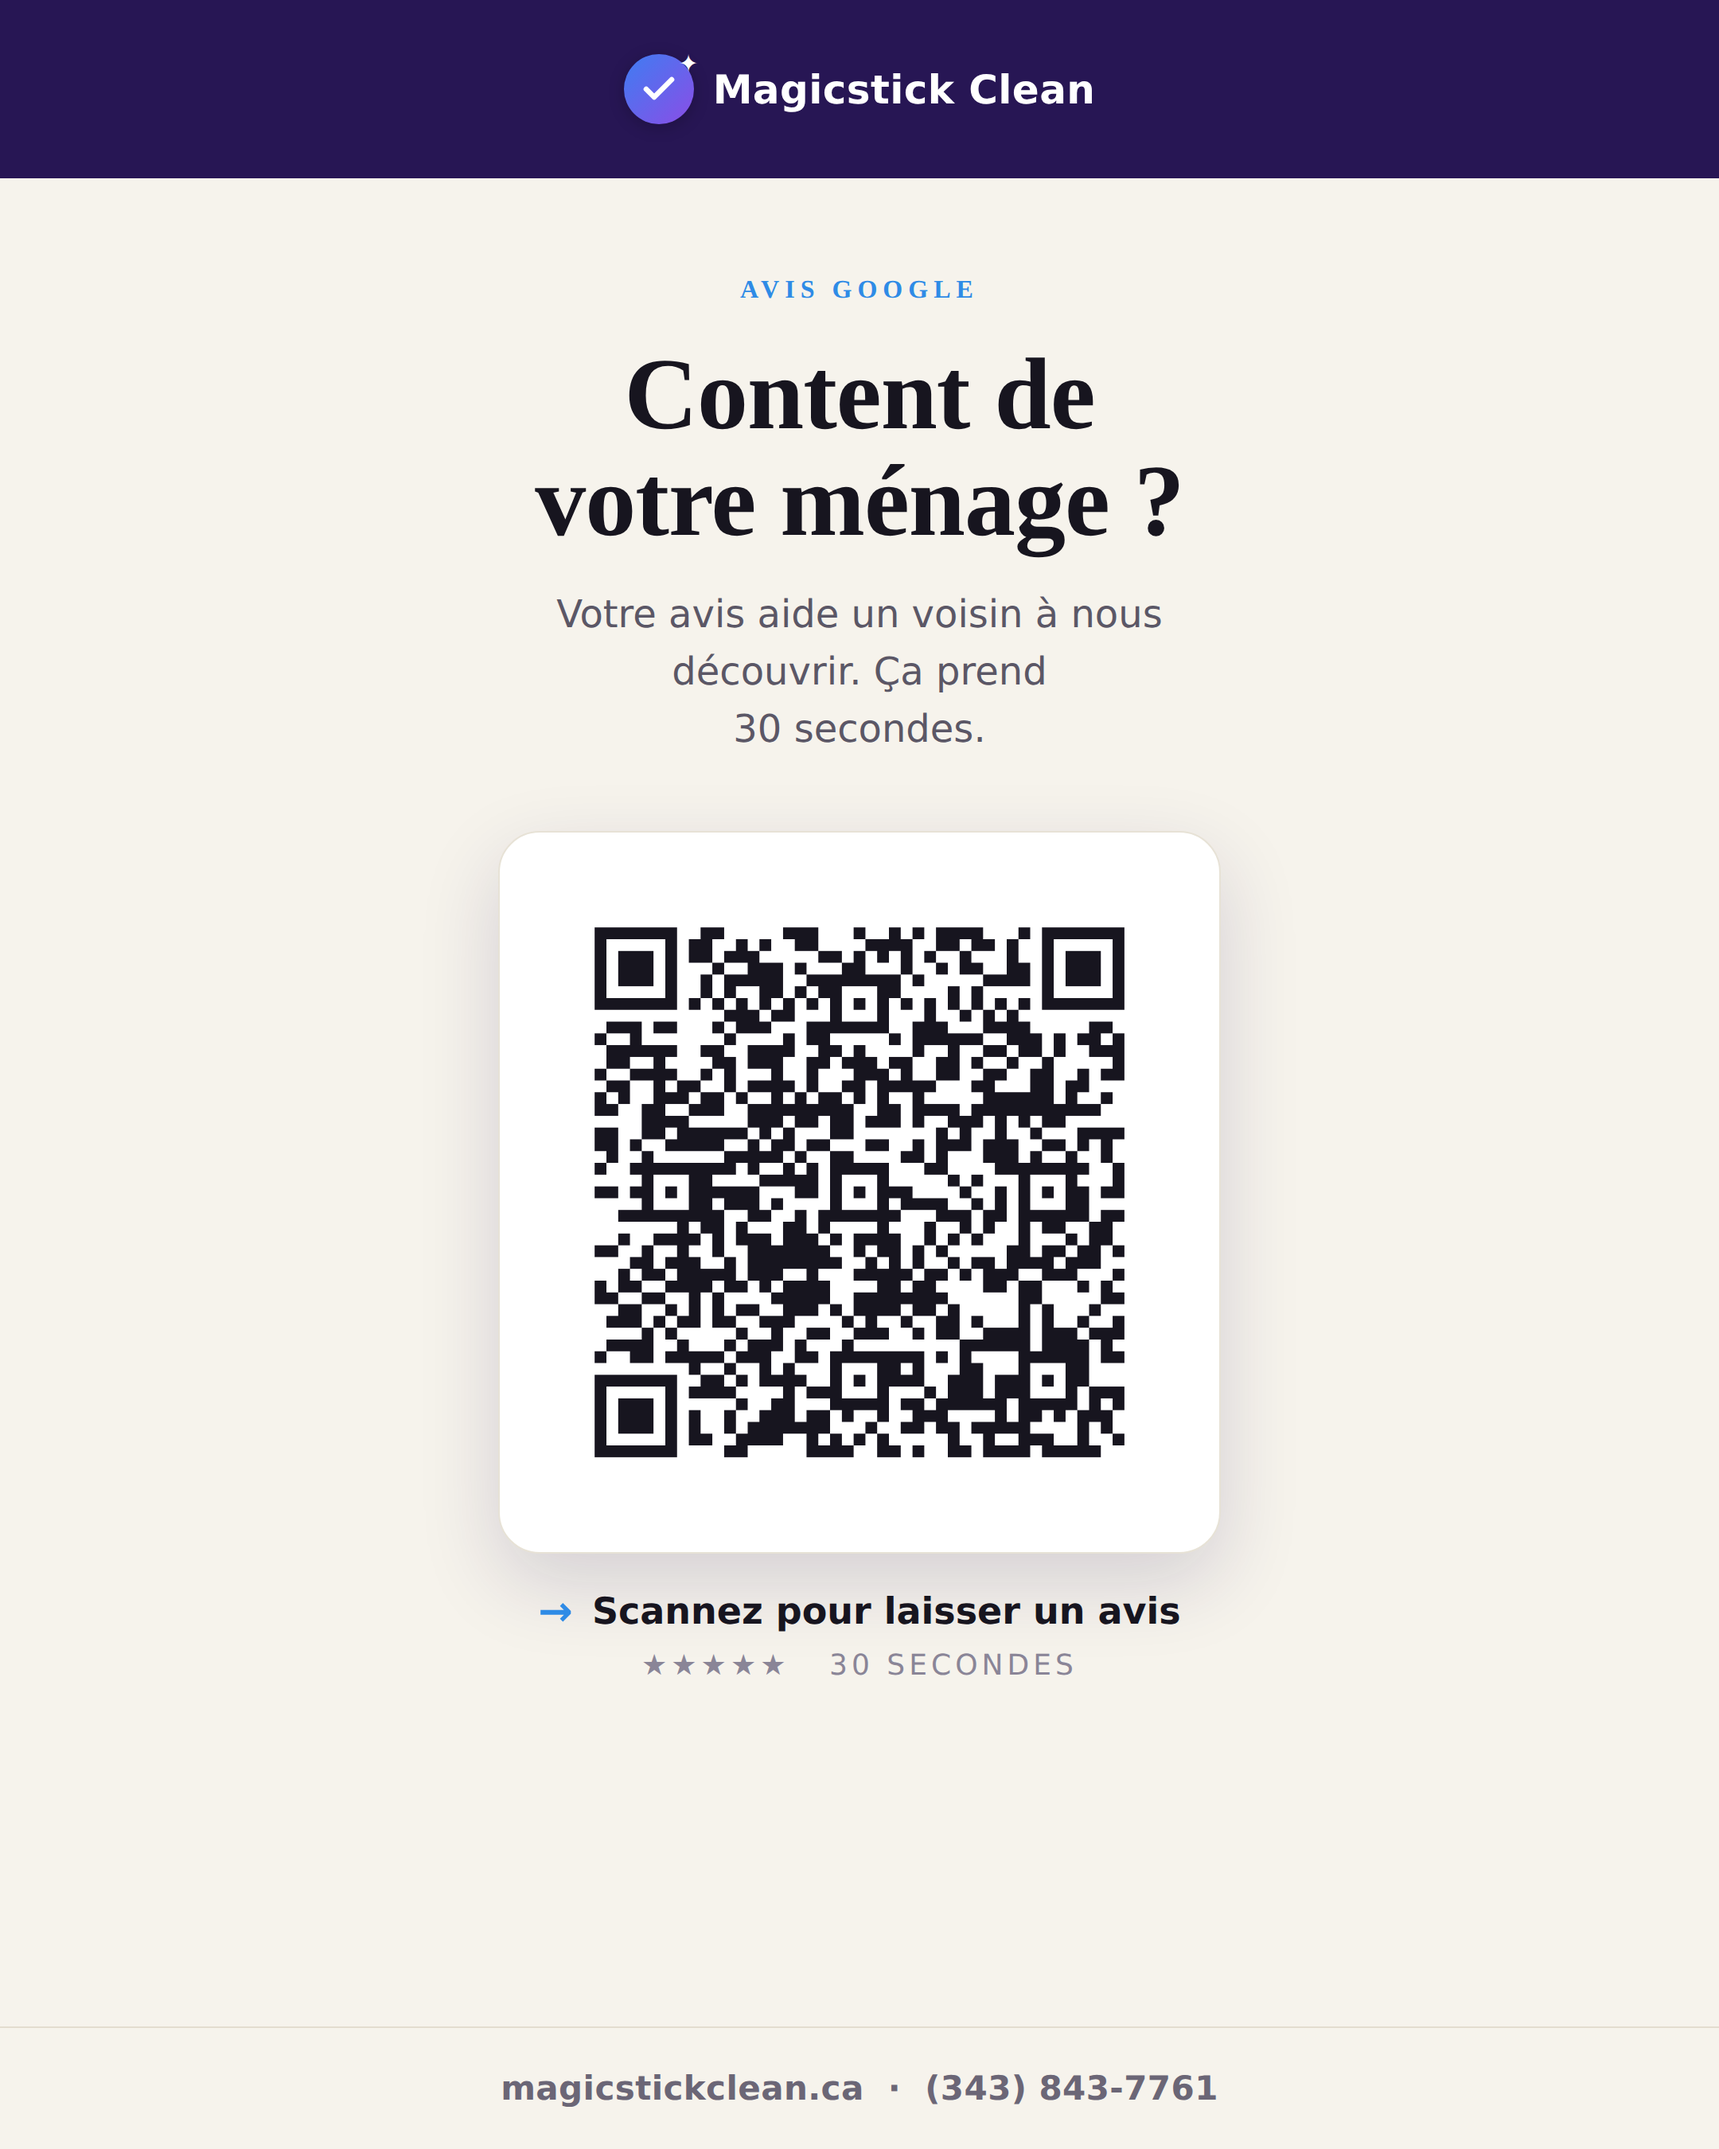
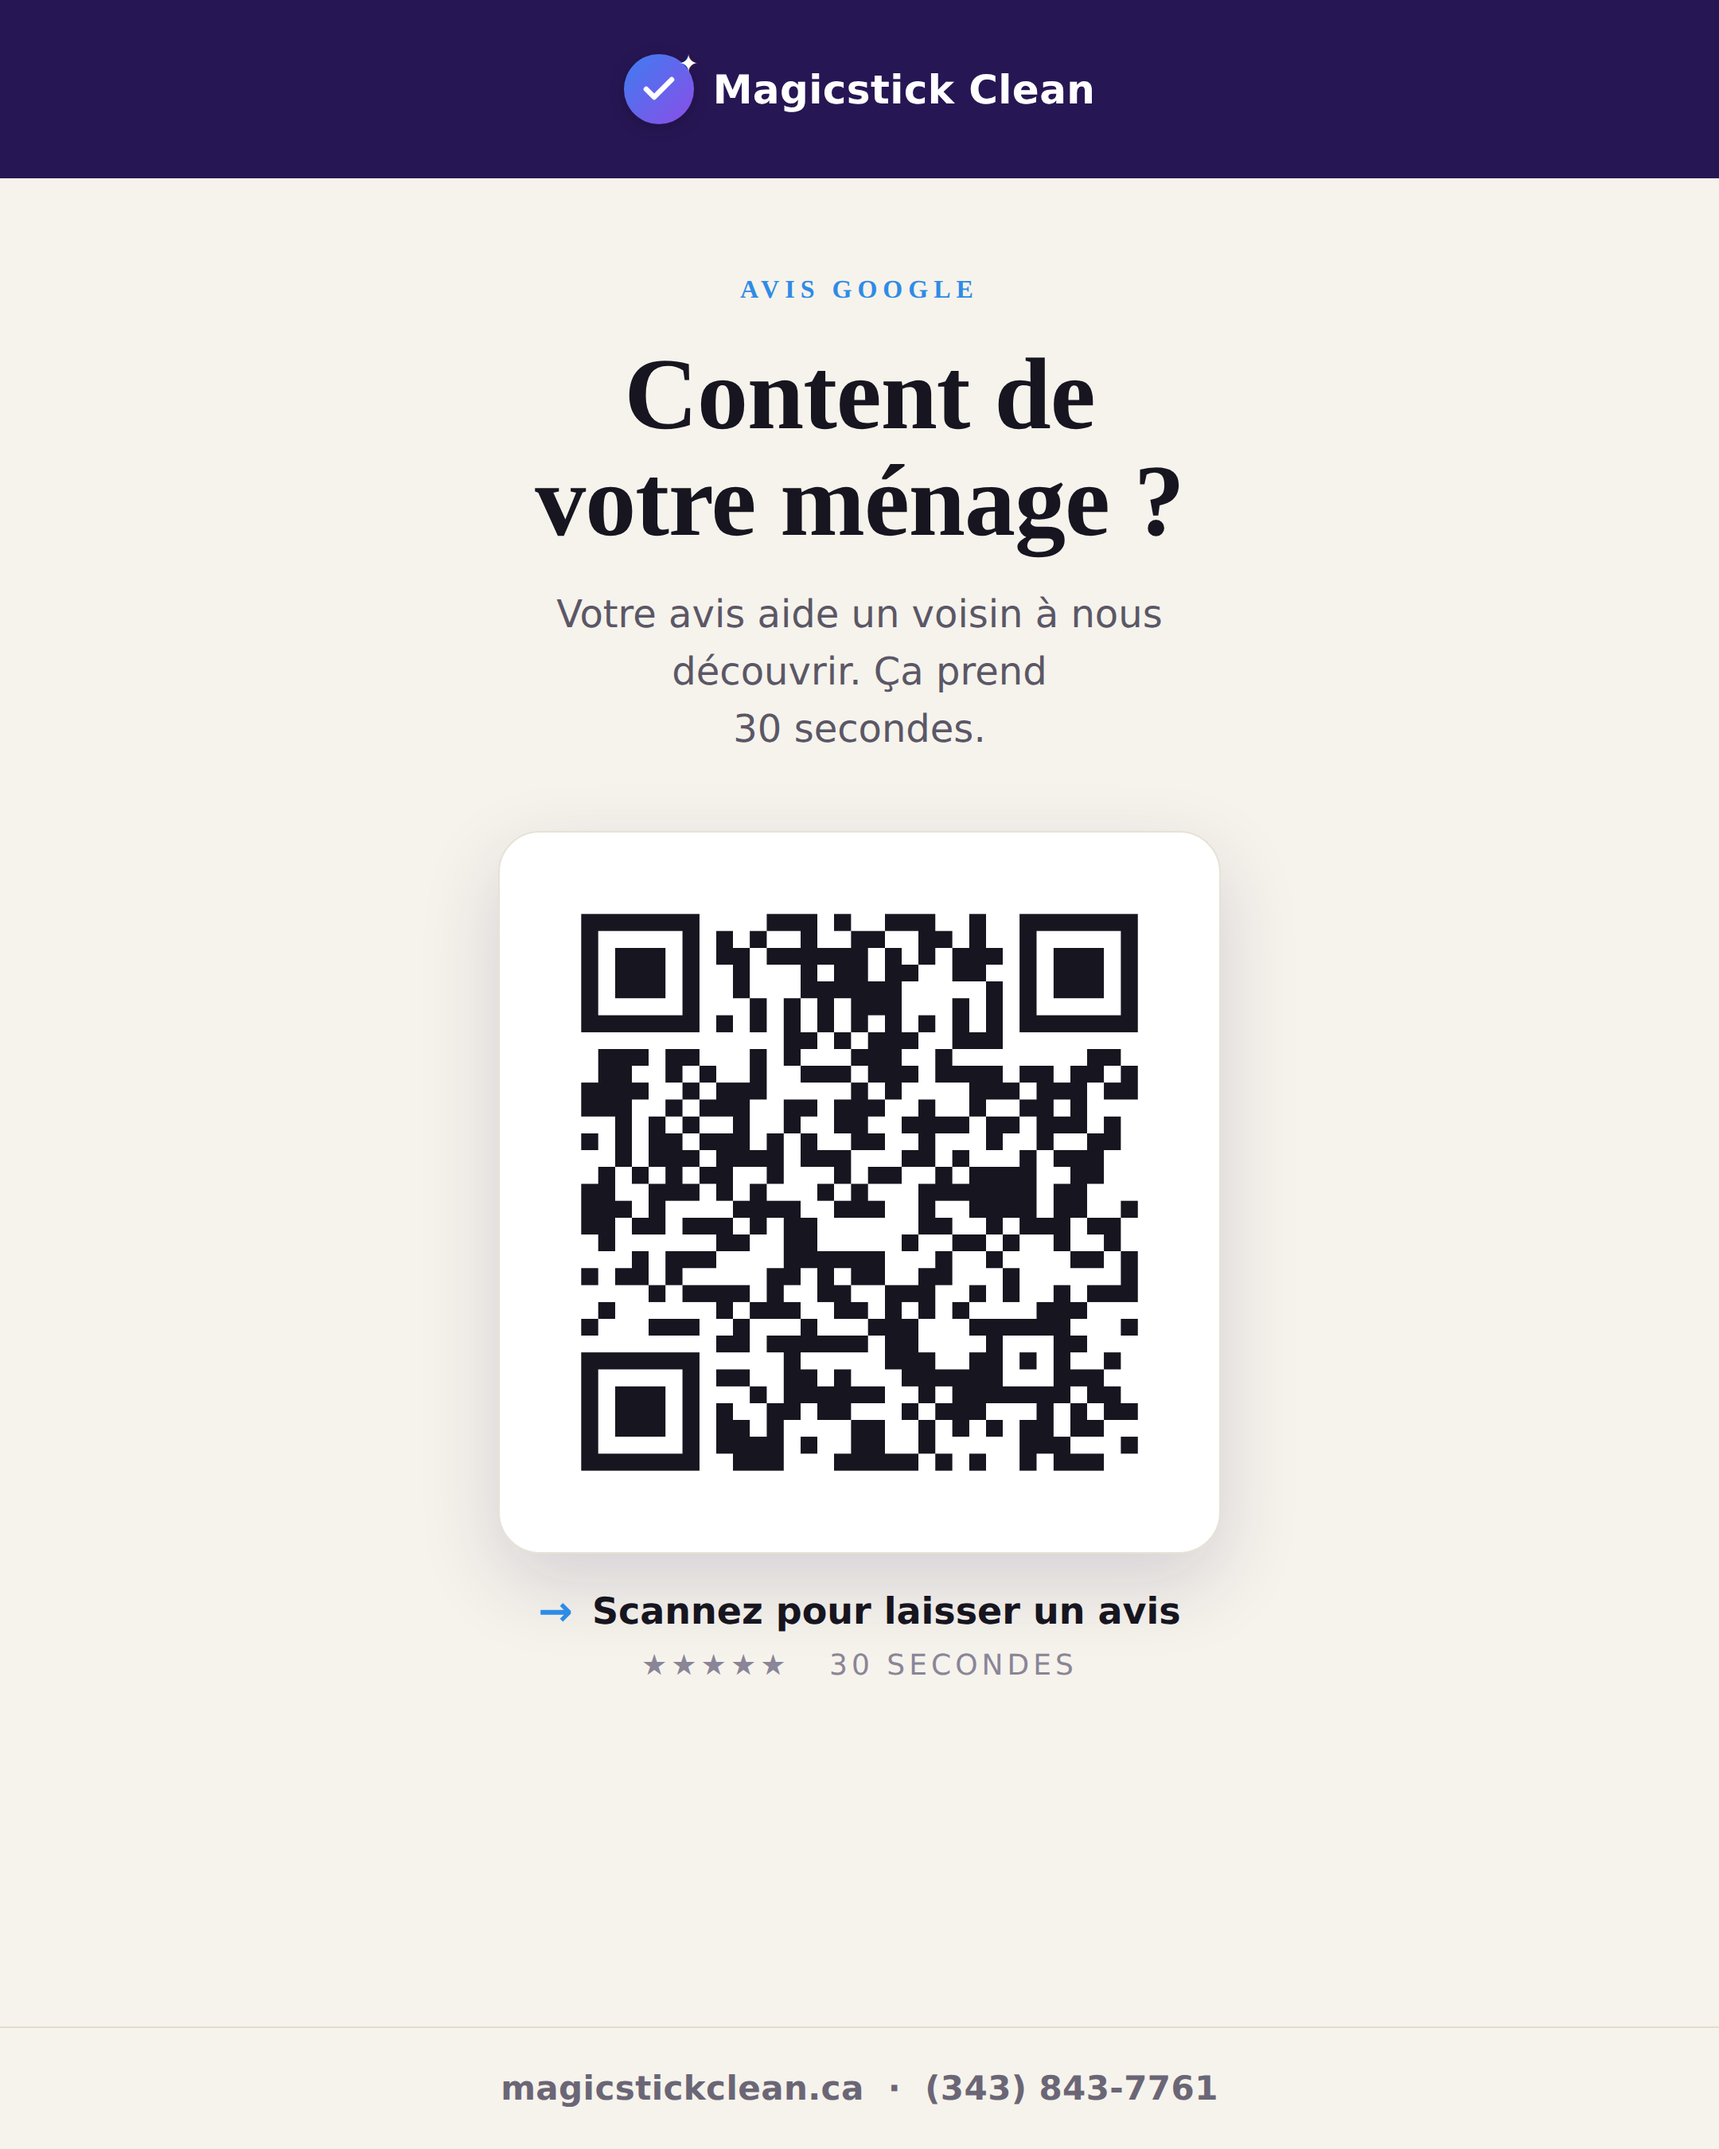
Review QR and card now point to the real Google review link; note listing name
Claude-Session: https://claude.ai/code/session_014YH6rsJi2V4axuvgRq6oeD

Changed region(s): [[0.3102, 0.4044, 0.6824, 0.6844]]

diff --git a/apps/magicstick-clean/PRESENCE-EN-LIGNE.md b/apps/magicstick-clean/PRESENCE-EN-LIGNE.md
@@ -47,6 +47,20 @@ par semaine. Le plus important reste Google : c'est là que se décide la recher
 Lien à mettre dans chaque bio : `https://magicstickclean.ca/?utm_source=<plateforme>&utm_medium=profil`
 (remplacez `<plateforme>` par `instagram`, `facebook`, `google`, etc. : le site gardera la source).
 
+
+## 1 bis. Votre lien d'avis Google
+
+Lien fourni par vous : `https://maps.app.goo.gl/uoKevdokSXRezaAeA` (il ouvre la fiche Google
+« Magicstickclean »). Le code QR et la carte d'avis (`assets/images/marketing/qr-avis-google.png`
+et `carte-avis.png`) pointent vers ce lien.
+
+À faire : testez-le avec votre téléphone (scannez le QR ou ouvrez le lien) et vérifiez qu'il
+ouvre la fenêtre « Écrire un avis ». Sinon : Google Business → « Demander des avis » → copiez
+le lien proposé et donnez-le-moi pour que je régénère le QR.
+
+**Nom de la fiche :** elle s'appelle « Magicstickclean » (sans espace). Pour que le nom soit
+identique partout, changez-le en **Magicstick Clean** dans Google Business → « Modifier le profil ».
+
 ## 2. Niveau 1 — Gratuit et essentiel (semaine 1)
 
 | Plateforme | Pourquoi | À savoir |
